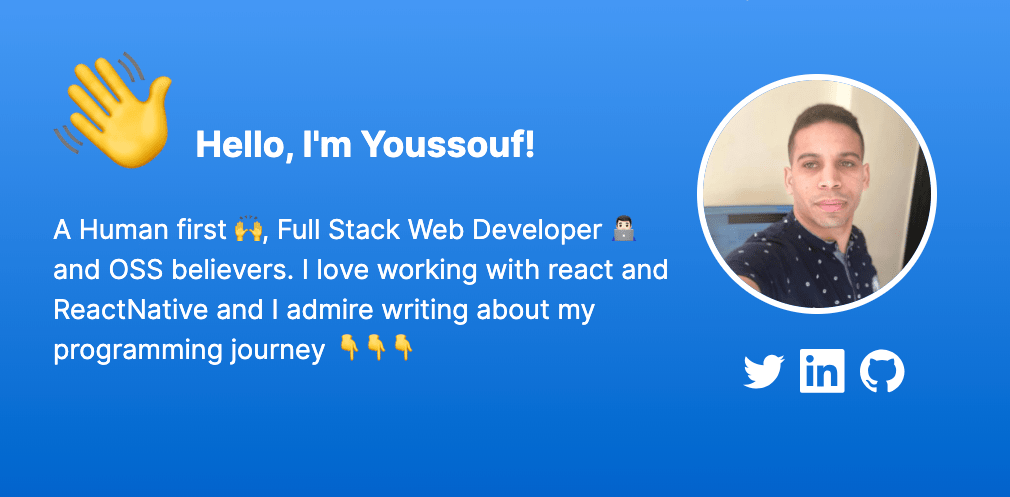
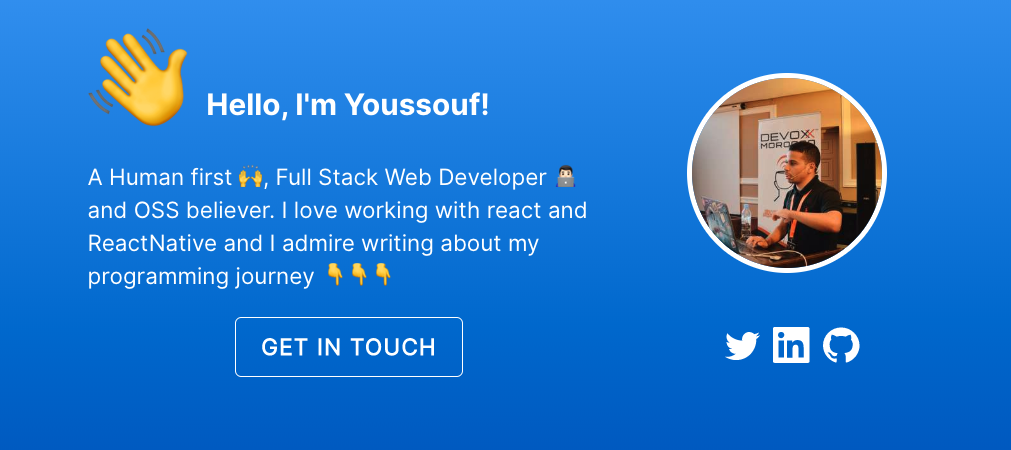
update profile image

diff --git a/src/components/Header/index.js b/src/components/Header/index.js
@@ -7,7 +7,7 @@ import { useTheme } from "../Theming";
 import Container from "../Container";
 import Links from "./Links";
 import MobileMenu from "./MobileMenu";
-const image = require("../../../static/images/elazizi.png");
+const image = require("../../../static/images/elazizi.jpg");
 
 const Header = ({ siteTitle = "Youssouf", isHome }) => {
   const theme = useTheme();

diff --git a/src/components/Hero.js b/src/components/Hero.js
@@ -9,7 +9,7 @@ import { Twitter, GitHub, LinkedIn } from "./Social";
 import { Link } from "gatsby";
 import { useTheme } from "./Theming";
 
-const image = require("../../static/images/elazizi.png");
+const image = require("../../static/images/elazizi.jpg");
 const Avatar = styled.img`
   height: 160px;
   width: 160px;
